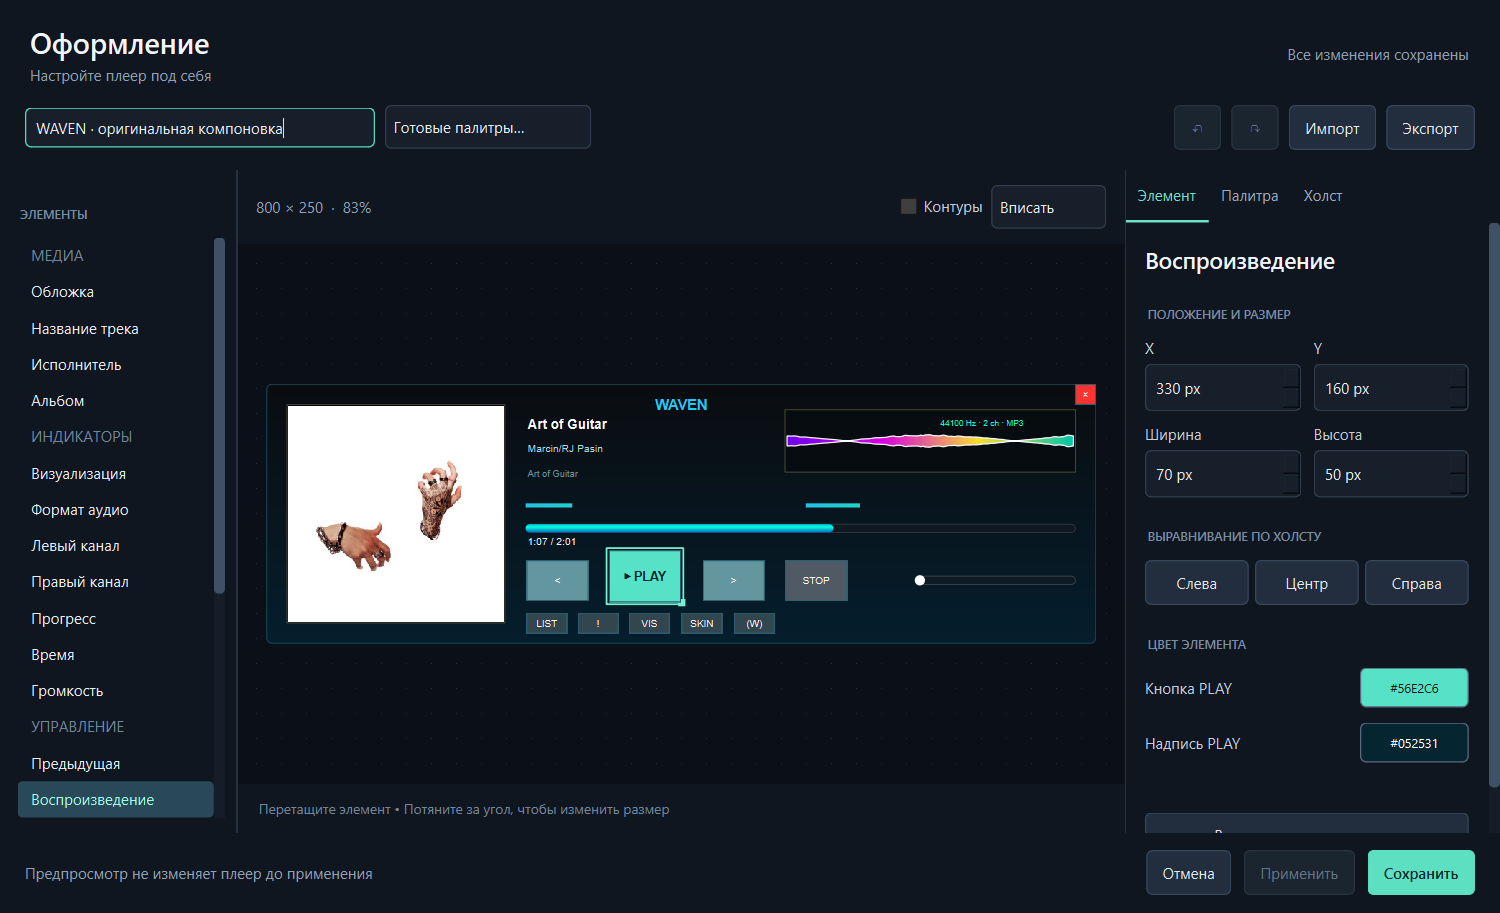
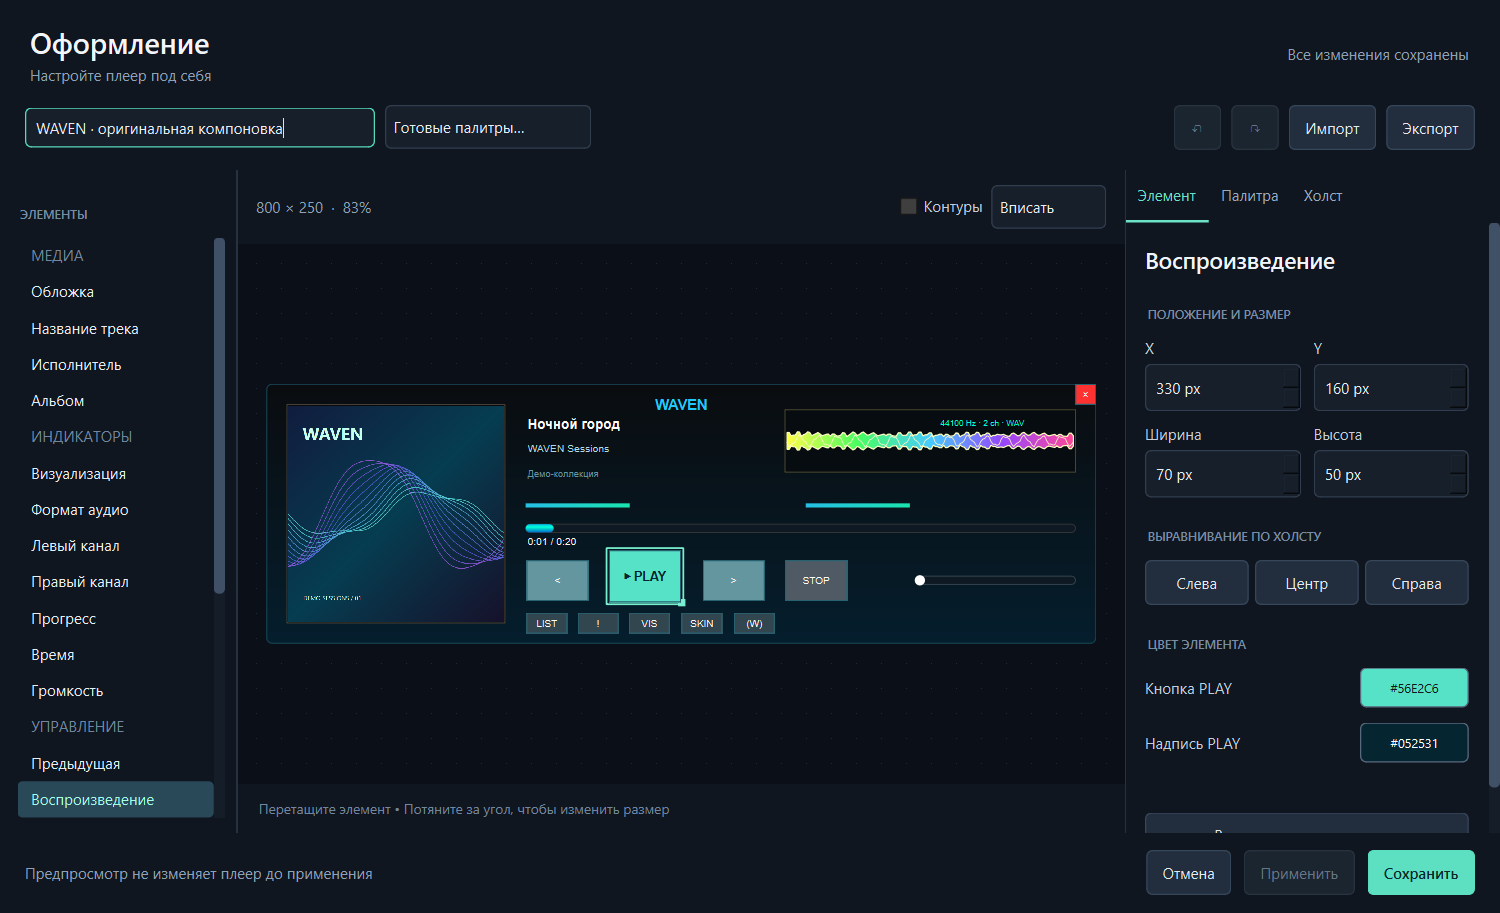
Обновить скриншоты и описание плеера без технических названий

diff --git a/README.md b/README.md
@@ -5,15 +5,15 @@
 **Знакомый компактный плеер. Сохраняемые плейлисты. Редактируемое оформление.**
 
 ![Windows](https://img.shields.io/badge/Windows-10%20%2F%2011-0078D4?logo=windows)
-![Python](https://img.shields.io/badge/Python-3.13-3776AB?logo=python&logoColor=white)
-![PySide6](https://img.shields.io/badge/Интерфейс-PySide6-41CD52)
 ![Локально](https://img.shields.io/badge/Музыка-локально-00b6b6)
 
 ![Главное окно](docs/player.png)
 
 </div>
 
-Самостоятельный плеер, визуально воссозданный по скриншотам WAVEN и координатам его XML-темы. Компактное окно 800×250, цветные аудиовизуализации, удобная библиотека и настройка оформления. Программа написана заново на Python/PySide6; это не восстановленный исходный код Garage Dev Studio.
+Музыкальный плеер для Windows: компактное окно, сохраняемые плейлисты, живые визуализации и редактор оформления. Открывайте трек — остальные песни из его папки попадут в очередь автоматически. Доступны установщик и портативная версия.
+
+Самостоятельная реализация по визуальному образцу WAVEN, а не восстановленный исходный код Garage Dev Studio.
 
 [Установщик и портативная версия](https://github.com/lReDragol/waven-custom/releases/latest) · [Изменения](CHANGELOG.md)
 
@@ -28,7 +28,7 @@
 | Информация о песнях | Название, исполнитель, альбом и длительность из тегов; поиск по метаданным и имени файла |
 | Сохранение | Плейлисты, очередь, позиция, громкость и тема сохраняются между запусками |
 | Импорт / экспорт | M3U, M3U8 и PLS на вход; M3U8 на выход |
-| Оформление | Редактор PySide6: элементы, холст, свойства, палитры, масштаб, выравнивание и отмена действий |
+| Оформление | Элементы, холст, свойства, палитры, масштаб, выравнивание и отмена действий |
 | Темы | Свой JSON-формат и импорт XML `WavenUIConfig` |
 | Визуализация | 14 цветных эффектов с крупными анимированными примерами; в плеере — реакция на декодированное аудио |
 | Кнопка PLAY | Контрастная надпись; отдельные цвета фона и текста с защитой читаемости |
@@ -159,7 +159,7 @@ python app.py "D:\Музыка\Track 02.mp3"
 | `track_metadata.py` | Фоновое чтение тегов через Mutagen |
 | `visualizers.py` | Цветные эффекты и окно их выбора |
 | `theme_editor.py` | Редактор оформления, история действий, инспектор и холст |
-| `ui_style.py` | Общий стиль диалогов PySide6 |
+| `ui_style.py` | Общий стиль диалогов |
 | `app_paths.py` | Разделение установленного и портативного профиля |
 | `windows_integration.py` | Регистрация обработчика аудио и открытие настроек Windows |
 | `windows_update.py` | Корректное закрытие обновляемой копии перед заменой EXE |
